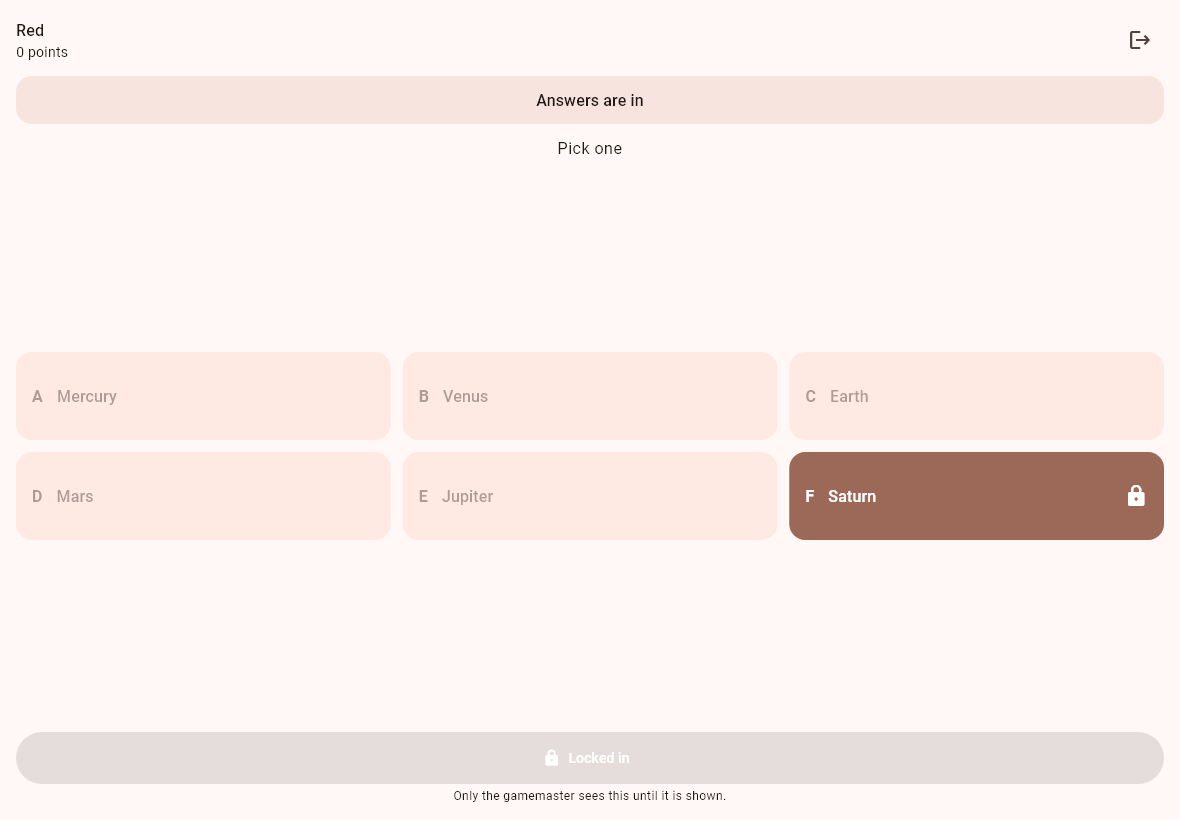
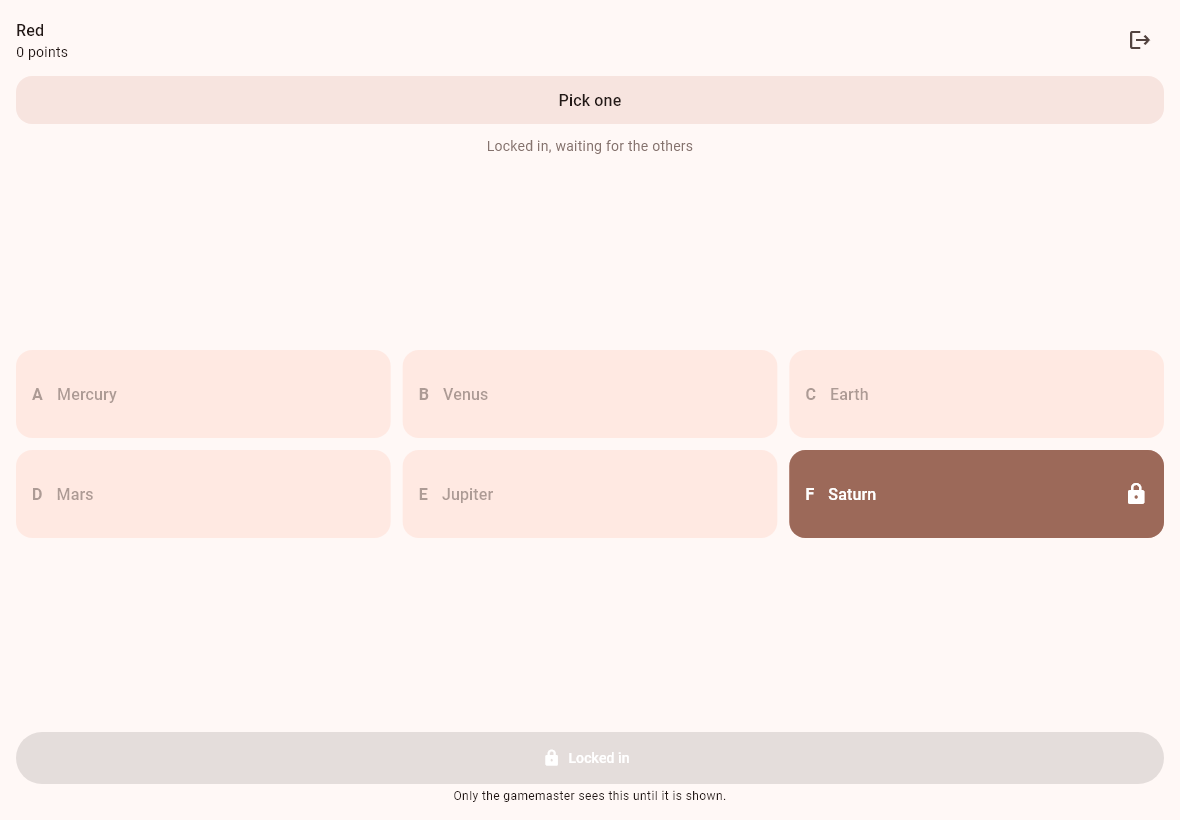
Team devices keep the question as the headline while answering; the map editor's slider works without touching the stage first

diff --git a/lib/features/player/pages/player_page.dart b/lib/features/player/pages/player_page.dart
@@ -199,7 +199,13 @@ class _PlayerViewState extends State<PlayerView> {
             ? (kind == CompanionKind.connections ? "Find four groups of four" : "Answer here")
             : view.isRevealed(team.id)
                 ? "Your answer is being shown"
-                : "Answers are in";
+                : view.answersOpen
+                    ? "Locked in, waiting for the others"
+                    : "Answers are in";
+    // While answering, the question stays the big line and where the team
+    // stands goes under it.
+    final question = view.question?['text'] as String? ?? '';
+    final questionFirst = kind != null && kind != CompanionKind.connections && question.trim().isNotEmpty;
 
     final teamLine = Row(
       children: [
@@ -226,20 +232,24 @@ class _PlayerViewState extends State<PlayerView> {
         borderRadius: BorderRadius.circular(16),
       ),
       child: Text(
-        headline,
+        questionFirst ? question : headline,
         textAlign: TextAlign.center,
+        maxLines: questionFirst ? 4 : null,
+        overflow: questionFirst ? TextOverflow.ellipsis : null,
         style: theme.textTheme.titleMedium?.copyWith(color: highlighted ? scheme.onPrimary : null),
       ),
     );
-    final questionText = view.question == null
-        ? null
-        : Text(
-            view.question!['text'] as String? ?? '',
-            textAlign: TextAlign.center,
-            maxLines: 3,
-            overflow: TextOverflow.ellipsis,
-            style: theme.textTheme.bodyLarge,
-          );
+    final questionText = questionFirst
+        ? Text(headline, textAlign: TextAlign.center, style: theme.textTheme.bodyMedium?.copyWith(color: scheme.outline))
+        : view.question == null
+            ? null
+            : Text(
+                question,
+                textAlign: TextAlign.center,
+                maxLines: 3,
+                overflow: TextOverflow.ellipsis,
+                style: theme.textTheme.bodyLarge,
+              );
 
     if (kind == CompanionKind.connections) {
       return Padding(
@@ -305,6 +315,8 @@ class _PlayerViewState extends State<PlayerView> {
             child: Column(
               children: [
                 teamLine,
+                if (questionFirst)
+                  Text(question, textAlign: TextAlign.center, maxLines: 2, overflow: TextOverflow.ellipsis, style: theme.textTheme.bodyLarge),
                 ?questionText,
                 ?_countdown(top: 6),
                 const SizedBox(height: 6),

diff --git a/lib/features/games/widgets/map_editor.dart b/lib/features/games/widgets/map_editor.dart
@@ -255,12 +255,23 @@ class _MapEditorState extends State<MapEditor> {
                         // below moves the window, the stage itself only drags
                         // what is on it.
                         final canvas = Size(box.maxWidth * layoutMap(_draft).widthFactor, box.maxHeight);
-                        return SingleChildScrollView(
-                          key: _stageKey,
-                          controller: _scroll,
-                          scrollDirection: Axis.horizontal,
-                          physics: const NeverScrollableScrollPhysics(),
-                          child: SizedBox.fromSize(size: canvas, child: _stage(canvas, box.maxWidth, scheme)),
+                        // The slider can only work out how far there is to go
+                        // once the stage is laid out; it is told when that
+                        // changes, also on the very first frame.
+                        return NotificationListener<ScrollMetricsNotification>(
+                          onNotification: (_) {
+                            WidgetsBinding.instance.addPostFrameCallback((_) {
+                              if (mounted) setState(() {});
+                            });
+                            return false;
+                          },
+                          child: SingleChildScrollView(
+                            key: _stageKey,
+                            controller: _scroll,
+                            scrollDirection: Axis.horizontal,
+                            physics: const NeverScrollableScrollPhysics(),
+                            child: SizedBox.fromSize(size: canvas, child: _stage(canvas, box.maxWidth, scheme)),
+                          ),
                         );
                       },
                     ),

diff --git a/test/map_editor_test.dart b/test/map_editor_test.dart
@@ -146,6 +146,12 @@ void main() {
     expect(saved['width'], 1.0);
   });
 
+  testWidgets('a wide map can be moved with the slider straight away, without touching the stage first', (tester) async {
+    await pumpEditor(tester, layout: {'width': 2.0});
+    await tester.pump();
+    expect(tester.widget<Slider>(find.byType(Slider)).onChanged, isNotNull);
+  });
+
   testWidgets('a tapped bubble can be made larger or smaller, and keeps its size when tidied', (tester) async {
     await pumpEditor(tester);
     await tester.tap(bubble('c1'));
